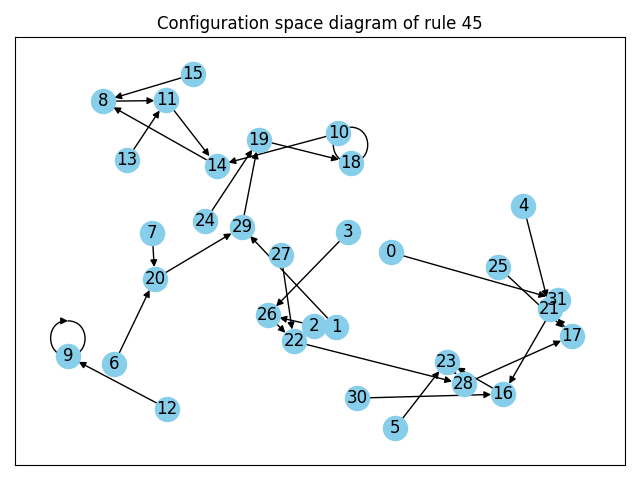
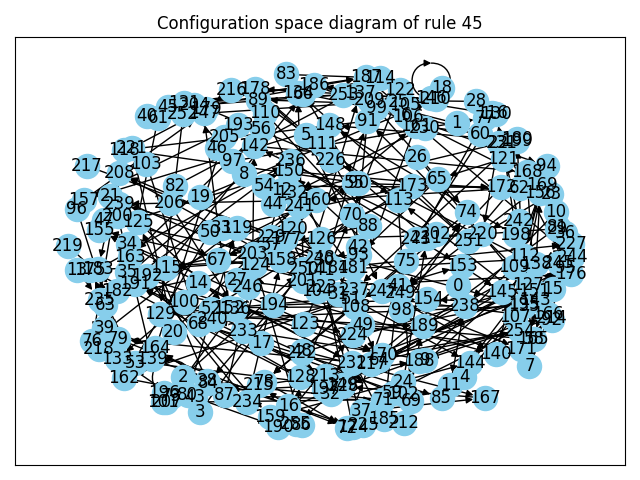
I caved in and made 256 node graphs, a hot mess

diff --git a/projects/agent_based_modelling/assignment_5/rule.py b/projects/agent_based_modelling/assignment_5/rule.py
@@ -8,7 +8,7 @@ from scipy.ndimage import shift
 
 BITS_IN_RULE = 8
 RULES = 2**BITS_IN_RULE
-SPACE_DIAGRAM_BITS = 5
+SPACE_DIAGRAM_BITS = 8
 
 _not = np.logical_not
 _and = np.logical_and

diff --git a/projects/agent_based_modelling/assignment_5/main.py b/projects/agent_based_modelling/assignment_5/main.py
@@ -65,5 +65,5 @@ def plot_graphs(rules: Iterable[int] = CUSTOM_STEP_FUNCTIONS):
 
 
 if __name__ == "__main__":
-    plot_rules()
+    # plot_rules()
     plot_graphs()
